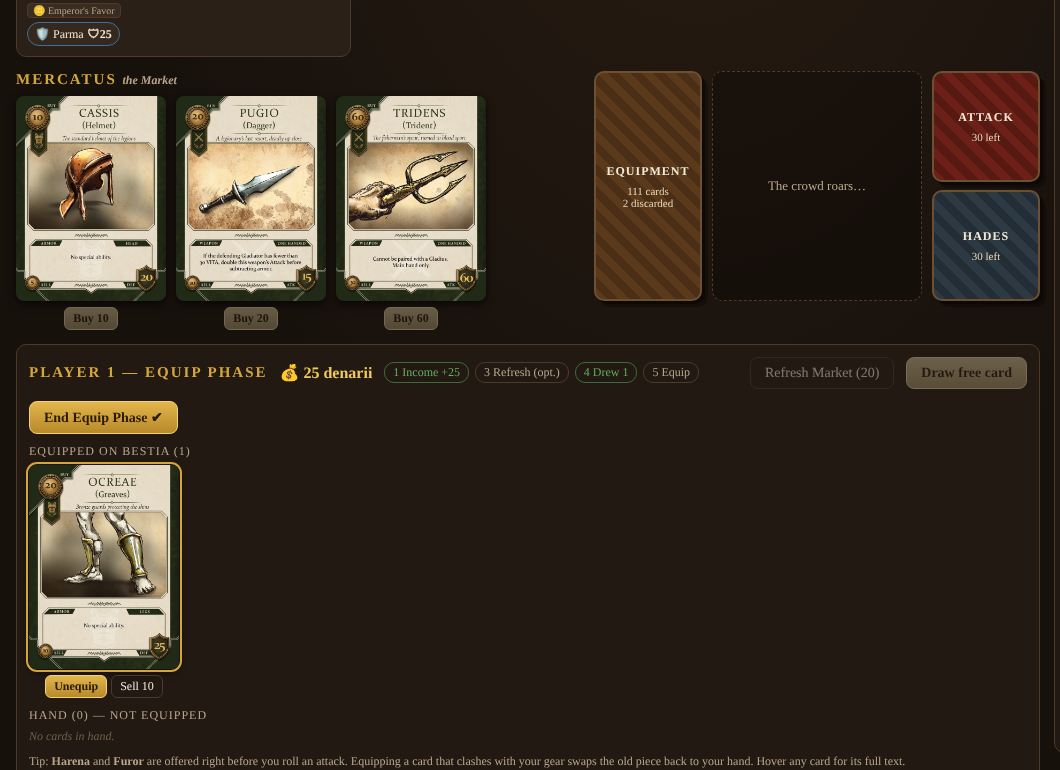
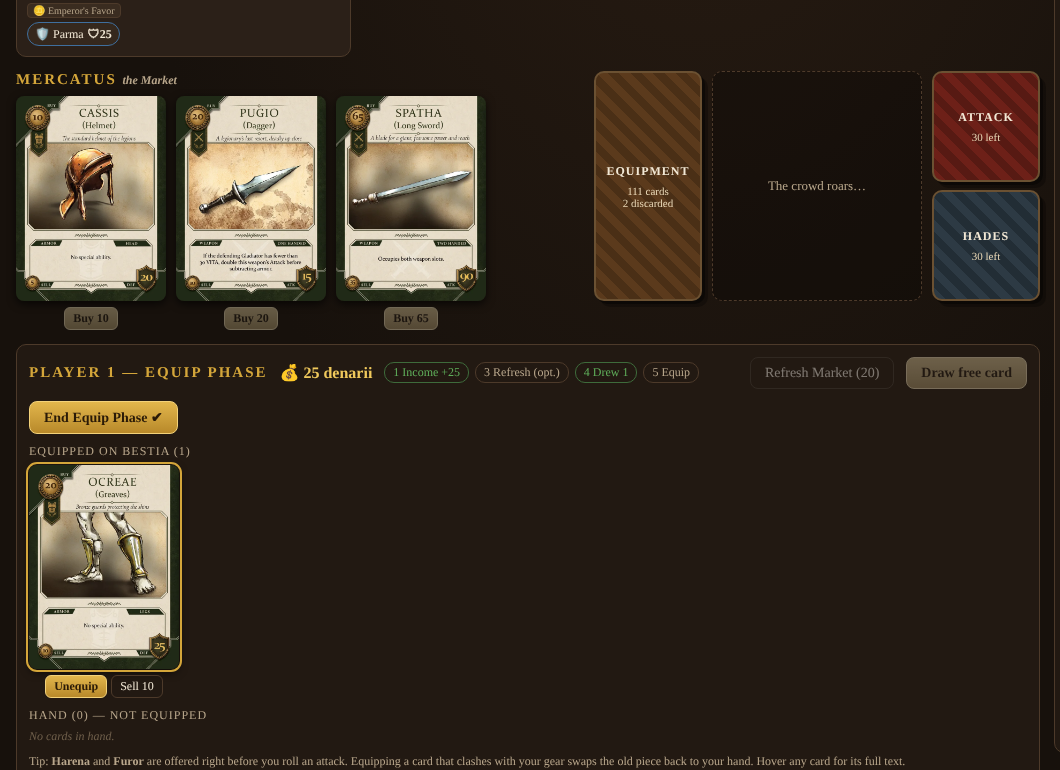
Add Pack Hunt; Pugio 7 -> 6, Canis 3 -> 4
Pack Hunt: if both your weapons are Canis, add 20 damage. This damage
also ignores armor. The AI values the bonus, the lab gets a field for
it, and the rules screen and Canis text mention it.

Claude-Session: https://claude.ai/code/session_01WB9PxXvDD11Yg1w6N3Eb9G

Changed region(s): [[0.3113, 0.1247, 0.467, 0.3429]]

diff --git a/js/data.js b/js/data.js
@@ -15,7 +15,7 @@
   // type: weapon | armor | special | relic   ·   cat: weapon | armor | special | legendary
   const CARDS = {
     // ---------- Weapons (51) ----------
-    pugio: { name: 'Pugio', en: 'Dagger', type: 'weapon', cat: 'weapon', atk: 15, hands: 1, buy: 20, sell: 10, count: 7, icon: '🗡',
+    pugio: { name: 'Pugio', en: 'Dagger', type: 'weapon', cat: 'weapon', atk: 15, hands: 1, buy: 20, sell: 10, count: 6, icon: '🗡',
       text: "If the defending Gladiator has fewer than 30 VITA, double this weapon's ATK before subtracting armor." },
     gladius: { name: 'Gladius', en: 'Short Sword', type: 'weapon', cat: 'weapon', atk: 50, hands: 1, buy: 40, sell: 20, count: 8, icon: '⚔',
       text: 'Cannot be paired with a Tridens.' },
@@ -37,8 +37,8 @@
       text: "Damage 10-60. Ignores armor. Reduces opponent's dodge by 1 for this attack." },
     ursus: { name: 'Ursus', en: 'Bear', type: 'weapon', cat: 'weapon', beast: 8, hands: 1, buy: 50, sell: 25, count: 3, icon: '🐻', autoReduceOwn: 10,
       text: "Damage 8-48. Reduces auto-hit damage by 10." },
-    canis: { name: 'Canis', en: 'War Dog', type: 'weapon', cat: 'weapon', beast: 5, hands: 1, buy: 45, sell: 25, count: 3, icon: '🐕', ignoreArmor: true,
-      text: "Damage 5-30. Ignores armor." },
+    canis: { name: 'Canis', en: 'War Dog', type: 'weapon', cat: 'weapon', beast: 5, hands: 1, buy: 45, sell: 25, count: 4, icon: '🐕', ignoreArmor: true, pack: true,
+      text: "Damage 5-30. Ignores armor. Pack Hunt: if both your weapons are Canis, add 20 damage. This damage also ignores armor." },
 
     // ---------- Armor (37) ----------
     subarmalis: { name: 'Subarmalis', en: 'Padded Vest', type: 'armor', cat: 'armor', def: 20, loc: 'body', buy: 15, sell: 10, count: 7, icon: '🦺', text: "No special ability." },
@@ -161,6 +161,7 @@
     archerTurn: 15, // the Emperor's archers fire once
     archerDmg: 30,
     bribeCost: 30, // Bribe the Lanista
+    packBonus: 20, // Pack Hunt: two Canis equipped
     laurelsToWin: 3,      // up to 3 players
     laurelsToWinBig: 2,   // 4 or more players
     dodgeMin: 1,

diff --git a/js/ui.js b/js/ui.js
@@ -500,7 +500,7 @@
       <table><tr><th>Gladiator</th><th>VITA</th><th>Dodge</th><th>Special</th></tr>
       ${Object.values(GLADIATORS).map((g) => `<tr><td>${g.icon} ${g.name}</td><td>${g.vita}</td><td>${g.dodge || 'never'}</td><td>${esc(g.text)}</td></tr>`).join('')}</table>
       <h4>Equipment</h4>
-      <p>Two weapon slots (main and off-hand). Two-handed weapons use both; shields use the off-hand. One armor piece per location. Specials and Legendaries are draw-only (never in the Market), and you may carry only 1 Legendary equipped.</p>
+      <p>Two weapon slots (main and off-hand). Two-handed weapons use both; shields use the off-hand. One armor piece per location. Specials and Legendaries are draw-only (never in the Market), and you may carry only 1 Legendary equipped. <b>Pack Hunt:</b> if both your weapons are Canis, add ${RULES.packBonus} damage; this damage also ignores armor.</p>
       <table><tr><th>Card</th><th>Stats</th><th>Buy/Sell</th><th>Effect</th></tr>
       ${Object.values(CARDS).map((d) => `<tr><td>${d.icon} ${d.name}</td><td>${statLine(d)}</td><td>${d.buy || '—'}/${d.sell}</td><td>${esc(d.text)}</td></tr>`).join('')}</table>
       <h4>Notes on this digital edition</h4>

diff --git a/js/lab.js b/js/lab.js
@@ -25,6 +25,7 @@
   add('rules', 'archerTurn', 'Archers fire on turn', R, 'archerTurn', { step: 1, min: 1 });
   add('rules', 'archerDmg', 'Archer damage', R, 'archerDmg');
   add('rules', 'bribeCost', 'Bribe the Lanista cost', R, 'bribeCost');
+  add('rules', 'packBonus', 'Pack Hunt bonus (two Canis)', R, 'packBonus');
   add('rules', 'dodgeMax', 'Dodge cap', R, 'dodgeMax', { step: 1, min: 1 });
   add('rules', 'laurelsToWin', 'Laurels to win (2–3 players)', R, 'laurelsToWin', { step: 1, min: 1 });
   add('rules', 'laurelsToWinBig', 'Laurels to win (4+ players)', R, 'laurelsToWinBig', { step: 1, min: 1 });

diff --git a/js/engine.js b/js/engine.js
@@ -802,6 +802,8 @@
         if (w.halfArmor) half = true;
       }
       if (ws.every((w) => !w.beast && !w.atk)) { normal += RULES.fists; parts.push('fists 10'); }
+      // Pack Hunt: two Canis add bonus damage that also ignores armor.
+      if (RULES.packBonus && ws.filter((w) => w.pack).length === 2) { ignore += RULES.packBonus; parts.push(`Pack Hunt +${RULES.packBonus}`); }
       if (a.glad.key === 'bestia') { normal += 10; parts.push('Bestia +10'); }
 
       if (auto) {

diff --git a/js/ai.js b/js/ai.js
@@ -27,6 +27,7 @@
       if (w.dodgeMod && !(w.isRete && td.some((d) => d.ignoresRete))) red += w.dodgeMod;
     }
     if (ws.every((w) => !w.beast && !w.atk)) normal += RULES.fists;
+    if (RULES.packBonus && ws.filter((w) => w.pack).length === 2) ignore += RULES.packBonus;
     if (aKey === 'bestia') normal += 10;
     const armor = td.reduce((s, d) => s + (d.type === 'armor' && !skip.has(d.loc) ? d.def : 0), 0);
     let eff = armor;

diff --git a/README.md b/README.md
@@ -41,6 +41,8 @@ Playtest changes not yet in the printed manual:
 - **Gladius** 9 → **8** copies; **Sica** 3 → **4** copies.
 - **Scutum:** buy 35 → **45**, sell 20 → **25**.
 - **Lorica Segmentata:** buy 55 → **70**, sell 30 → **35**.
+- **Pugio** 7 → **6** copies; **Canis** 3 → **4** copies (weapon total stays 51).
+- **Pack Hunt:** if both your weapons are Canis, add 20 damage. This damage also ignores armor.
 - **Invictus:** dodge 3 → **2** (VITA stays 120). At dodge 3 it won about 52% of 4-player arenas; at dodge 2, about 36%.
 
 The Scutum, Lorica Segmentata and Invictus card art has been updated to match.
